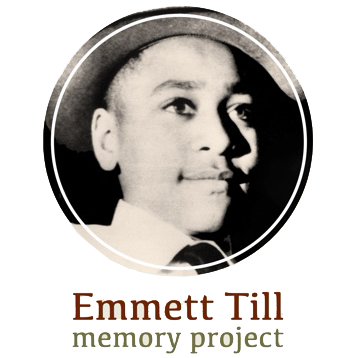
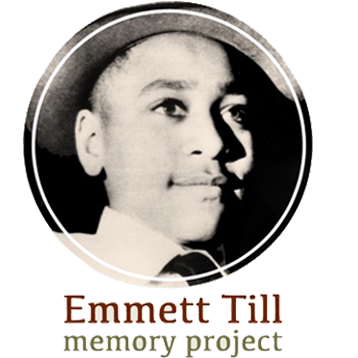
portfolio edits

Changed region(s): [[0.0615, 0.0, 0.8911, 1.0]]

diff --git a/src/components/projectlogo.js b/src/components/projectlogo.js
@@ -40,9 +40,10 @@ function ProjectLogo(props) {
     );
   } else {
     return (
-      <Image>
-        {/* <Image1 src={props.children}/> */}
-        <img src={props.children} style={{width: '120px', maxHeight: '120px' }}></img>
+      <Image          
+        width={size}
+        height={size}>
+        <img src={props.children} style={{width: '120px', maxHeight: '120px', marginTop: '30px' }}></img>
       </Image>
     );
   }

diff --git a/src/pages/index.js b/src/pages/index.js
@@ -22,7 +22,7 @@ export default class App extends React.Component {
         <Section id={'projects'}>
           <Work />
         </Section>
-        <Section id={'projects'}>
+        <Section id={'portfolio'}>
           <Portfolio />
         </Section>
         <Section>

diff --git a/src/components/portfolio.js b/src/components/portfolio.js
@@ -50,6 +50,7 @@ function Portfolio() {
             logo="port_self.png"
             title="Yousef Abu-Salah"
             abstract="My Portfolio Website"
+            more={emmettMore}
             srcType="image"
           />
         </Fragment>
